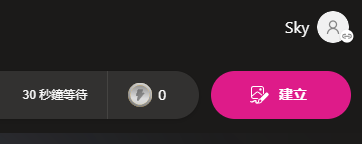
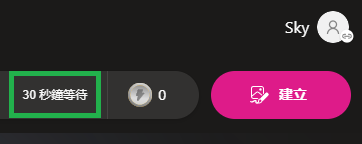
修改圖片和內文

Changed region(s): [[0.0, 0.4722, 0.3039, 0.8333]]

diff --git a/post/10minute/ai-bing-image-creator/index.html b/post/10minute/ai-bing-image-creator/index.html
@@ -390,7 +390,7 @@
 <h2 id="什麼是快速生成幣">什麼是快速生成幣?</h2>
 <p>根據官方說明，每位用戶初始擁有 10 點，每生成一張圖片則消耗一點，這些點數可以加快生成圖片速度。當點數用完後，用戶需排隊等待生成圖片，或者可以通過 Microsoft Rewards 兌換更多點數，綠色圈內的數字代表尚餘快速生成次數。</p>
 <p><img src="https://Vincent3054.github.io/images/content/20230324009.png" alt=""></p>
-<p>用完所有次數後會顯示這個畫面，Bing 表示需要等候 5 分鐘。</p>
+<p>用完所有次數後會顯示這個畫面，Bing 表示需要等候30秒。</p>
 <p><img src="https://Vincent3054.github.io/images/content/20230324010.png" alt=""></p>
 <h2 id="如何建立一個好的-prompt">如何建立一個好的 Prompt?</h2>
 <p>根據官方說明，當您具有高度描述性時效果最佳。因此，發揮創意並新增像是形容詞、位置、甚至是藝術風格等詳細資料，例如 digital art (數位藝術) 和 photorealistic (相片藝術)。</p>
